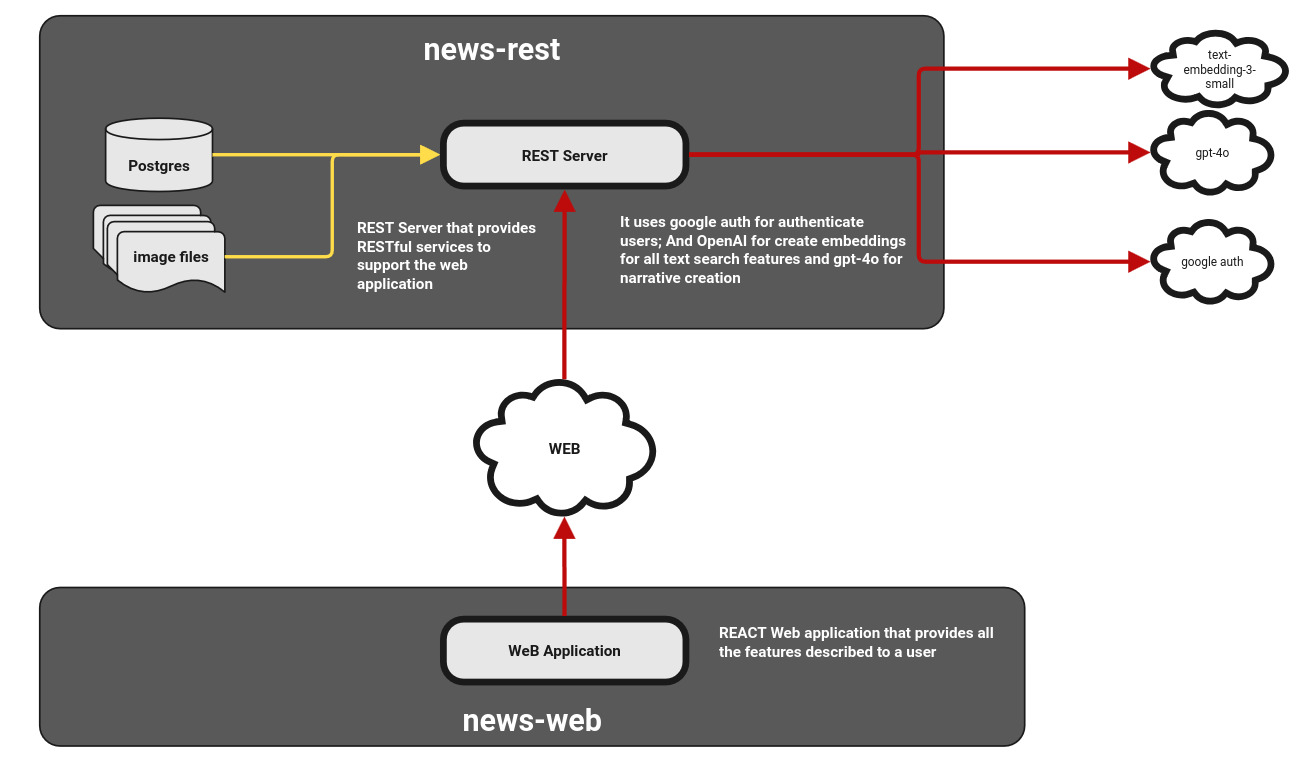
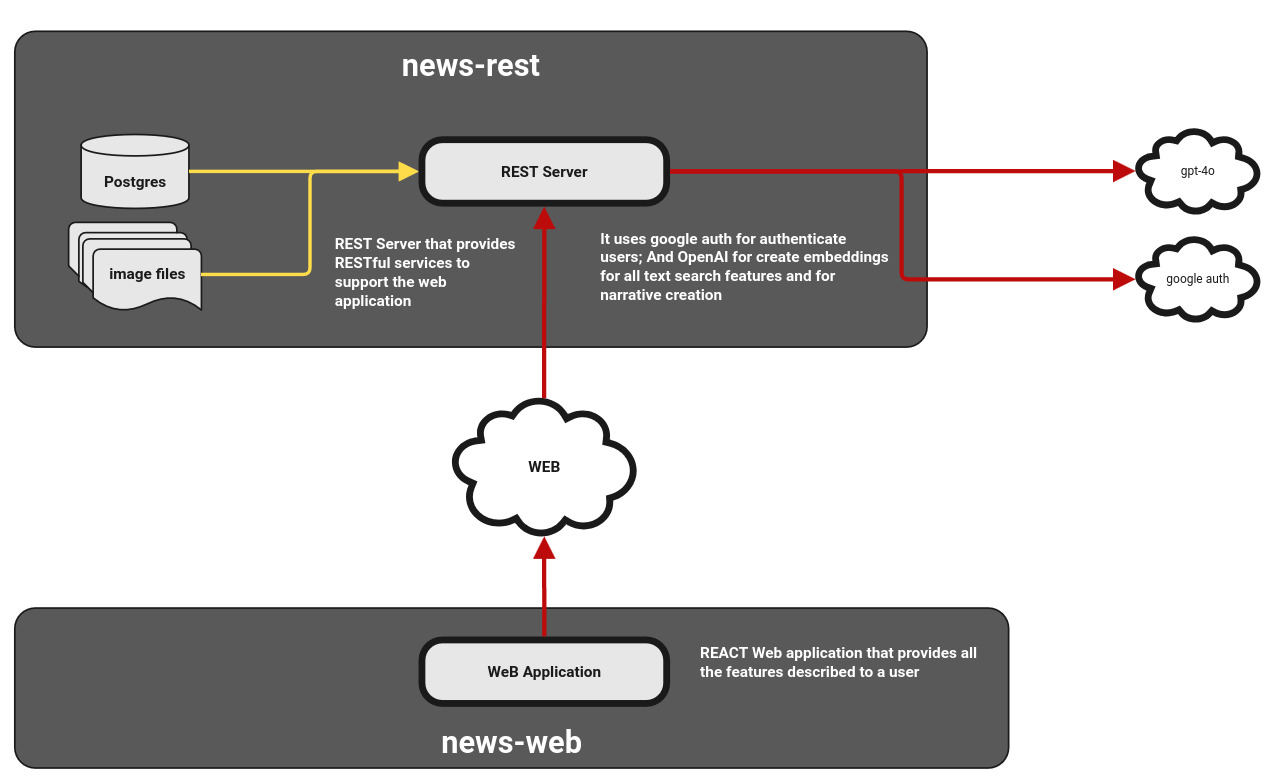
feat(news-web): improves about

Changed region(s): [[0.0, 0.0, 0.9938, 0.9974], [0.4037, 0.5742, 0.4348, 0.6045]]

diff --git a/scribe-news-web/src/i18n/translations.ts b/scribe-news-web/src/i18n/translations.ts
@@ -122,7 +122,7 @@ export const translations = {
     // AboutPage
     navAbout: "About",
     aboutTitle: "About PressDigger",
-    aboutDescription: "PressDigger is a research tool built on top of Arquivo.pt, Portugal's web archive. It allows journalists, researchers, and curious minds to search, explore, and analyse thousands of archived newspaper articles spanning decades of Portuguese press coverage.",
+    aboutDescription: "PressDigger is a tool for journalists, researchers, and the general public to explore and analyze Portuguese politicians' news articles from Arquivo.pt. The system provides powerful search capabilities, article summarization, and semantic analysis to help users discover relevant news content efficiently.\n\nThe inspiration for PressDigger was the microfilm reader machines that appeared in several American thriller movies, where police officers and detectives would search for news articles in a large archive of microfilms. PressDigger is a modern digital version of that concept, allowing users to search and analyze news articles from the comfort of their own devices.",
     aboutStatsTitle: "What's inside",
     aboutArticles: "Articles",
     aboutPersons: "Persons",
@@ -139,15 +139,15 @@ export const translations = {
     aboutExpand: "Show",
     aboutCollapse: "Hide",
     aboutCrawlerTitle: "news-crawler",
-    aboutCrawlerDesc: "On startup, ArquivoCrawler generates the full set of search URLs by combining every Site × every Person × every monthly date interval from January 1996 to today, forming requests against the Arquivo.pt text search API. If URLs have already been generated in a previous run, only the unprocessed ones are loaded from the database, making the crawler resumable. The list is shuffled before processing to distribute load evenly across sites, people and time windows. For each URL, the crawler fetches the Arquivo.pt response and follows any pagination (next_page) until all result pages are collected. Before processing, each batch is deduplicated by computing a hash of the normalised title + site name, checked first against an in-memory Bloom filter and then against the database to avoid redundant work. Each candidate article is then filtered through three gates: it must be a news article (opinion columns, editorials and commentary are discarded), it must have a valid URL, and it must be complete (title, archive link, extracted text link and screenshot link all present). Articles that pass all checks are serialised as JSON and published to a Kafka topic for downstream processing by the image and text processors. Processed URLs are marked in the database so a restart resumes from where it left off.",
+    aboutCrawlerDesc: "The first stage of the pipeline is responsible for discovering news articles from Arquivo.pt. It systematically searches the archive by combining all known news sites, politicians, and monthly date intervals going back to 1996. The crawler handles pagination, deduplicates results using hashing and a Bloom filter, and filters out opinion pieces, editorials, and incomplete entries. Valid articles are published to a Kafka queue, feeding the image processing stage. The process is fully resumable — if interrupted, it picks up exactly where it left off.",
     aboutImageTitle: "news-image",
-    aboutImageDesc: "On each Kafka message received from the crawler, ImageProcessorListener extracts the articleHash and derives the deterministic output filenames (original/{hash}.png and small/{hash}.png). If the original file already exists on disk the message is acknowledged and forwarded immediately, skipping all expensive processing. Otherwise, the article screenshot is downloaded from the linkToScreenshot URL using a URLConnection with configurable connect and read timeouts, retrying up to three times with exponential backoff on failure. The downloaded image passes through two quality gates: first, ImageBlankDetector samples the pixel grid to detect uniformly coloured (blank) images, discarding any where more than 20% of sampled pixels deviate from a reference colour within a per-channel tolerance; second, ImageTextDetector sends the image to the external OCR service and discards any image containing fewer than 250 recognised words, filtering out screenshots without readable article content. Images that pass both gates are written to disk as the full-size original, and a thumbnail is generated by first cropping to the upper portion of the image (top half of the height, capped at width + width/2 pixels) and then resizing to a square using Thumbnailator at a configurable output quality. Finally, the original article payload is enriched with originalImagePath and smallImagePath and published to the next Kafka topic for the text processor to consume.",
+    aboutImageDesc: "Once an article is discovered by the crawler, this component retrieves and validates its screenshot from Arquivo.pt. Each image goes through quality checks — blank or nearly uniform images are discarded, and OCR is used to ensure the screenshot contains enough readable text. Images that pass are saved in full size and as cropped thumbnails, then forwarded along with the article metadata to the text processing stage via Kafka.",
     aboutTextTitle: "news-text",
-    aboutTextDesc: "On each Kafka message received from the image processor, TextProcessorListener first validates that linkToExtractedText is present, then fetches the raw article text from that URL via an HTTP GET with a 20-second timeout. Before spending any OpenAI credits, the raw text is passed through a relevance pre-screen that counts occurrences of the target person's full name (minimum 3 matches) or last name (minimum 5 matches) — articles that don't meet the threshold are discarded immediately. Text that passes the pre-screen is sent to OpenAI with a structured Portuguese-language prompt instructing the model to produce a factual 3–5 paragraph summary, extract the publication date in ISO 8601 format, and return a publishedDateConfidence score between 0 and 1, while strictly ignoring reader comments, opinion columns and editorial meta-text. The raw JSON returned by OpenAI is sanitised (trailing commas removed) before parsing. A second OpenAI call then acts as a strict binary relevance classifier, verifying that the generated summary is genuinely about the target person as its main subject — if the person's name doesn't appear or they are only a secondary mention, the article is rejected. In parallel, AuthorExtractor attempts to identify the article's author by first applying a regex pattern over byline keywords (por, autor, escrito por) in the first 2 000 characters of the text, then calling the external spaCy NER service to detect person-name entities, scoring and ranking all candidates by proximity, frequency and position. The final enriched payload — title, summary, published date, date confidence, author, image paths and archive link — is then published to the embeddings processor Kafka topic.",
+    aboutTextDesc: "After image validation, this component fetches the article's extracted text and determines whether the article is genuinely about the target politician. A relevance check counts name occurrences before any AI processing begins. Relevant articles are sent to OpenAI for summarization, date extraction, and a second-pass relevance classification. In parallel, the author is identified using pattern matching and named entity recognition via spaCy. The enriched article — with summary, publication date, author, and image paths — is then passed to the embeddings stage.",
     aboutEmbeddingsTitle: "news-embeddings",
-    aboutEmbeddingsDesc: "On each Kafka message received from the text processor, TextEmbeddingListener looks up the Site by ID and saves the fully enriched Article to the database — including title, summary, published date, date confidence, archive link, image paths and the resolved or created Author record. Once the article is persisted, its summary is sent to the YAKE service to extract up to 5 Portuguese key-phrases (up to 4 words each); each keyword is created or retrieved from the Keyword table and stored alongside its relevance score in ArticleKeywordScore, forming the basis for public keyword-based collections. The article summary is then split into overlapping chunks of 3 sentences with a 1-sentence overlap using a Portuguese-locale BreakIterator, trailing punctuation is stripped from each chunk, and each chunk is sent to OpenAI (text-embedding-3-small) to produce a 1024-dimensional vector. Each chunk and its vector are saved as an ArticleChunkMedium row in PostgreSQL with the pgvector extension, enabling efficient cosine-similarity search at query time. The module also ships a TextEmbeddingBackfill component that runs on startup (when enabled) and retroactively generates the same chunks and embeddings for any articles already in the database that are missing them, making it safe to re-run or upgrade the embedding model without reprocessing the entire pipeline.",
+    aboutEmbeddingsDesc: "With the article fully processed, this component persists it to the database and prepares it for semantic search. Keywords are extracted using YAKE to power the public collections. The article summary is split into overlapping sentence chunks, and each chunk is transformed into a vector using OpenAI's embedding model. These vectors are stored in PostgreSQL with the pgvector extension, enabling fast cosine-similarity search. A backfill mechanism ensures older articles can be retroactively embedded when the model is updated.",
     aboutRestTitle: "news-rest",
-    aboutRestDesc: "scribe-news-rest is the Spring Boot service that exposes all functionality to the frontend. Article search (POST /articles/search) accepts a text query plus optional filters for site, date range and page, normalises the input, generates a 1024-dimensional embedding via OpenAI text-embedding-3-small, and runs a hybrid query against PostgreSQL that combines pgvector cosine-similarity over the ArticleChunkMedium table with a full-text search on the original input, returning a ranked paginated result. Narrative generation (POST /articles/narrative) is an authenticated, rate-limited feature: the same embedding + hybrid search retrieves up to 20 of the most relevant articles (at least 3 are required), their summaries, dates and IDs are serialised to JSON and sent to OpenAI gpt-4o with a structured journalistic prompt that instructs the model to produce a coherent Portuguese-language narrative with inline citation markers ([1], [2], …); the response is parsed and the markers are resolved back to full article objects before being returned. Each user's narrative usage is tracked within a configurable sliding time window, and requests exceeding the limit receive a 429 Too Many Requests response with the reset timestamp. Image streaming (GET /images/{size}/{filename}) reads files directly from the configured disk path and returns them with 365-day Cache-Control headers. The remaining controllers handle public collections (auto-generated from keyword scores), private collections (user-created, authenticated), article annotations (per-user text notes on articles), authors, sites and persons lookups. Authentication is handled via Google OAuth2 through Spring Security, with session cookies configured for cross-origin use under the press-digger.com domain.",
+    aboutRestDesc: "The REST API, built with Spring Boot, serves as the bridge between the data pipeline and the React frontend. Article search combines vector similarity with full-text search for hybrid ranked results. Authenticated users can generate AI-powered narratives that weave relevant articles into a coherent journalistic account with inline citations. The API also handles image serving, public and private collections, article annotations, author and politician lookups, all secured via Google OAuth2.",
   },
 
   pt: {
@@ -271,7 +271,7 @@ export const translations = {
     // AboutPage
     navAbout: "Sobre",
     aboutTitle: "Sobre o PressDigger",
-    aboutDescription: "O PressDigger é uma ferramenta de investigação construída sobre o Arquivo.pt, o arquivo web de Portugal. Permite a jornalistas, investigadores e curiosos pesquisar, explorar e analisar milhares de artigos de jornais arquivados ao longo de décadas de imprensa portuguesa.",
+    aboutDescription: "O PressDigger é uma ferramenta para jornalistas, investigadores e o público em geral para explorar e analisar artigos de notícias sobre políticos portugueses a partir do Arquivo.pt. O sistema oferece capacidades avançadas de pesquisa, resumo de artigos e análise semântica para ajudar os utilizadores a descobrir conteúdo noticioso relevante de forma eficiente.\n\nA inspiração para o PressDigger foram as máquinas leitoras de microfilmes que apareciam em vários filmes de suspense americanos, onde polícias e detetives pesquisavam artigos de notícias em grandes arquivos de microfilmes. O PressDigger é uma versão digital moderna desse conceito, permitindo pesquisar e analisar artigos de notícias a partir do conforto dos seus próprios dispositivos.",
     aboutStatsTitle: "O que está dentro",
     aboutArticles: "Artigos",
     aboutPersons: "Pessoas",
@@ -288,15 +288,15 @@ export const translations = {
     aboutExpand: "Mostrar",
     aboutCollapse: "Ocultar",
     aboutCrawlerTitle: "news-crawler",
-    aboutCrawlerDesc: "Ao iniciar, o ArquivoCrawler gera o conjunto completo de URLs de pesquisa combinando cada Site × cada Pessoa × cada intervalo de datas mensais desde janeiro de 1996 até hoje, formando pedidos para a API de pesquisa de texto do Arquivo.pt. Se os URLs já foram gerados numa execução anterior, apenas os não processados são carregados da base de dados, tornando o crawler retomável. A lista é embaralhada antes do processamento para distribuir a carga de forma uniforme entre sites, pessoas e janelas temporais. Para cada URL, o crawler obtém a resposta do Arquivo.pt e segue a paginação (next_page) até recolher todas as páginas de resultados. Antes do processamento, cada lote é deduplicado calculando um hash do título normalizado + nome do site, verificado primeiro num filtro de Bloom em memória e depois na base de dados para evitar trabalho redundante. Cada artigo candidato é filtrado por três critérios: deve ser um artigo de notícias (colunas de opinião, editoriais e comentários são descartados), deve ter um URL válido, e deve estar completo (título, ligação de arquivo, ligação para texto extraído e ligação para screenshot presentes). Os artigos que passam todas as verificações são serializados como JSON e publicados num tópico Kafka para processamento posterior pelos processadores de imagem e texto. Os URLs processados são marcados na base de dados para que um reinício retome de onde parou.",
+    aboutCrawlerDesc: "A primeira etapa do pipeline é responsável por descobrir artigos de notícias no Arquivo.pt. Pesquisa sistematicamente o arquivo combinando todos os sites de notícias conhecidos, políticos e intervalos de datas mensais desde 1996. O crawler gere a paginação, elimina duplicados através de hashing e de um filtro de Bloom, e descarta peças de opinião, editoriais e entradas incompletas. Os artigos válidos são publicados numa fila Kafka, alimentando a etapa de processamento de imagem. O processo é totalmente retomável — se for interrompido, recomeça exatamente onde parou.",
     aboutImageTitle: "news-image",
-    aboutImageDesc: "Em cada mensagem Kafka recebida do crawler, o ImageProcessorListener extrai o articleHash e deriva os nomes de ficheiro de saída determinísticos (original/{hash}.png e small/{hash}.png). Se o ficheiro original já existir no disco, a mensagem é confirmada e reencaminhada imediatamente, ignorando todo o processamento dispendioso. Caso contrário, o screenshot do artigo é descarregado a partir do URL linkToScreenshot usando uma URLConnection com timeouts de ligação e leitura configuráveis, tentando novamente até três vezes com recuo exponencial em caso de falha. A imagem descarregada passa por dois controlos de qualidade: primeiro, o ImageBlankDetector amostra a grelha de pixels para detetar imagens uniformemente coloridas (em branco), descartando aquelas em que mais de 20% dos pixels amostrados se desviam de uma cor de referência dentro de uma tolerância por canal; segundo, o ImageTextDetector envia a imagem para o serviço OCR externo e descarta qualquer imagem com menos de 250 palavras reconhecidas, filtrando screenshots sem conteúdo de artigo legível. As imagens que passam ambos os controlos são escritas no disco como original em tamanho completo, e uma miniatura é gerada recortando primeiro para a parte superior da imagem (metade superior da altura, limitado a largura + largura/2 pixels) e depois redimensionando para um quadrado usando Thumbnailator com qualidade de saída configurável. Por fim, o payload original do artigo é enriquecido com originalImagePath e smallImagePath e publicado no próximo tópico Kafka para o processador de texto consumir.",
+    aboutImageDesc: "Assim que um artigo é descoberto pelo crawler, este componente obtém e valida a captura de ecrã correspondente a partir do Arquivo.pt. Cada imagem passa por controlos de qualidade — imagens em branco ou quase uniformes são descartadas, e é utilizado OCR para garantir que a captura contém texto legível suficiente. As imagens aprovadas são guardadas em tamanho original e como miniaturas recortadas, sendo depois encaminhadas juntamente com os metadados do artigo para a etapa de processamento de texto via Kafka.",
     aboutTextTitle: "news-text",
-    aboutTextDesc: "Em cada mensagem Kafka recebida do processador de imagens, o TextProcessorListener valida primeiro que o linkToExtractedText está presente, depois obtém o texto bruto do artigo a partir desse URL via HTTP GET com um timeout de 20 segundos. Antes de gastar créditos OpenAI, o texto bruto é submetido a uma pré-triagem de relevância que conta as ocorrências do nome completo da pessoa alvo (mínimo 3 correspondências) ou apelido (mínimo 5 correspondências) — os artigos que não cumprem o limiar são descartados imediatamente. O texto que passa a pré-triagem é enviado para o OpenAI com um prompt estruturado em português instruindo o modelo a produzir um resumo factual de 3 a 5 parágrafos, extrair a data de publicação no formato ISO 8601, e devolver uma pontuação publishedDateConfidence entre 0 e 1, ignorando estritamente comentários de leitores, colunas de opinião e meta-texto editorial. O JSON bruto devolvido pelo OpenAI é saneado (vírgulas finais removidas) antes da análise. Uma segunda chamada ao OpenAI funciona como classificador binário estrito de relevância, verificando que o resumo gerado é genuinamente sobre a pessoa alvo como sujeito principal — se o nome da pessoa não aparecer ou for apenas uma menção secundária, o artigo é rejeitado. Em paralelo, o AuthorExtractor tenta identificar o autor do artigo aplicando primeiro um padrão regex sobre palavras-chave de assinatura (por, autor, escrito por) nos primeiros 2 000 caracteres do texto, depois chamando o serviço NER spaCy externo para detetar entidades de nomes de pessoas, pontuando e classificando todos os candidatos por proximidade, frequência e posição. O payload final enriquecido — título, resumo, data de publicação, confiança da data, autor, caminhos de imagens e ligação de arquivo — é então publicado no tópico Kafka do processador de embeddings.",
+    aboutTextDesc: "Após a validação da imagem, este componente obtém o texto extraído do artigo e determina se este é genuinamente sobre o político-alvo. Uma verificação de relevância conta as ocorrências do nome antes de qualquer processamento com IA. Os artigos relevantes são enviados para o OpenAI para sumarização, extração de data e uma segunda classificação de relevância. Em paralelo, o autor é identificado através de correspondência de padrões e reconhecimento de entidades nomeadas via spaCy. O artigo enriquecido — com resumo, data de publicação, autor e caminhos de imagens — é então passado para a etapa de embeddings.",
     aboutEmbeddingsTitle: "news-embeddings",
-    aboutEmbeddingsDesc: "Em cada mensagem Kafka recebida do processador de texto, o TextEmbeddingListener procura o Site por ID e guarda o Artigo completamente enriquecido na base de dados — incluindo título, resumo, data de publicação, confiança da data, ligação de arquivo, caminhos de imagens e o registo de Autor resolvido ou criado. Uma vez que o artigo é persistido, o seu resumo é enviado para o serviço YAKE para extrair até 5 expressões-chave em português (até 4 palavras cada); cada palavra-chave é criada ou obtida da tabela Keyword e armazenada juntamente com o seu score de relevância em ArticleKeywordScore, formando a base para coleções públicas baseadas em palavras-chave. O resumo do artigo é então dividido em partes sobrepostas de 3 frases com sobreposição de 1 frase usando um BreakIterator de localidade portuguesa, a pontuação final é removida de cada parte, e cada parte é enviada para o OpenAI (text-embedding-3-small) para produzir um vetor de 1024 dimensões. Cada parte e o seu vetor são guardados como uma linha ArticleChunkMedium no PostgreSQL com a extensão pgvector, permitindo uma pesquisa eficiente por semelhança de cosseno no momento da consulta. O módulo também inclui um componente TextEmbeddingBackfill que é executado no arranque (quando ativado) e gera retroativamente os mesmos fragmentos e embeddings para quaisquer artigos já na base de dados que não os tenham, tornando segura a re-execução ou a atualização do modelo de embedding sem reprocessar todo o pipeline.",
+    aboutEmbeddingsDesc: "Com o artigo totalmente processado, este componente persiste-o na base de dados e prepara-o para pesquisa semântica. São extraídas palavras-chave através do YAKE para alimentar as coleções públicas. O resumo do artigo é dividido em fragmentos sobrepostos de frases, e cada fragmento é transformado num vetor utilizando o modelo de embeddings do OpenAI. Estes vetores são armazenados no PostgreSQL com a extensão pgvector, permitindo pesquisa rápida por semelhança de cosseno. Um mecanismo de preenchimento retroativo garante que artigos mais antigos possam ser indexados quando o modelo é atualizado.",
     aboutRestTitle: "news-rest",
-    aboutRestDesc: "O scribe-news-rest é o serviço Spring Boot que expõe toda a funcionalidade ao frontend. A pesquisa de artigos (POST /articles/search) aceita uma consulta de texto mais filtros opcionais de site, intervalo de datas e página, normaliza a entrada, gera um embedding de 1024 dimensões via OpenAI text-embedding-3-small, e executa uma consulta híbrida contra o PostgreSQL que combina semelhança de cosseno pgvector sobre a tabela ArticleChunkMedium com pesquisa de texto integral sobre a entrada original, devolvendo um resultado paginado e ordenado. A geração de narrativa (POST /articles/narrative) é uma funcionalidade autenticada e com limite de taxa: o mesmo embedding + pesquisa híbrida obtém até 20 dos artigos mais relevantes (são necessários pelo menos 3), os seus resumos, datas e IDs são serializados em JSON e enviados para o OpenAI gpt-4o com um prompt jornalístico estruturado que instrui o modelo a produzir uma narrativa coerente em português com marcadores de citação inline ([1], [2], …); a resposta é analisada e os marcadores são resolvidos de volta para objetos de artigo completos antes de serem devolvidos. O uso de narrativas de cada utilizador é rastreado numa janela de tempo deslizante configurável, e os pedidos que excedem o limite recebem uma resposta 429 Too Many Requests com o timestamp de reinício. O streaming de imagens (GET /images/{size}/{filename}) lê ficheiros diretamente do caminho de disco configurado e devolve-os com cabeçalhos Cache-Control de 365 dias. Os restantes controladores tratam de coleções públicas (geradas automaticamente a partir de pontuações de palavras-chave), coleções privadas (criadas pelo utilizador, autenticadas), anotações de artigos (notas de texto por utilizador sobre artigos), autores, sites e pesquisa de pessoas. A autenticação é gerida via Google OAuth2 através do Spring Security, com cookies de sessão configurados para uso entre origens no domínio press-digger.com.",
+    aboutRestDesc: "A API REST, construída com Spring Boot, serve de ponte entre o pipeline de dados e o frontend em React. A pesquisa de artigos combina semelhança vetorial com pesquisa de texto integral para resultados híbridos ordenados. Os utilizadores autenticados podem gerar narrativas assistidas por IA que entrelaçam artigos relevantes num relato jornalístico coerente com citações inline. A API trata também da entrega de imagens, coleções públicas e privadas, anotações de artigos, pesquisa de autores e políticos, tudo protegido via Google OAuth2.",
   },
 } as const satisfies Record<Lang, Record<string, unknown>>
 

diff --git a/scribe-news-web/src/pages/AboutPage.tsx b/scribe-news-web/src/pages/AboutPage.tsx
@@ -64,7 +64,7 @@ function PipelineCard({ title, desc }: { title: string; desc: string }) {
             margin: 0,
             fontSize: 14,
             lineHeight: 1.8,
-            color: "#777",
+            color: "#aaa",
             overflow: "hidden",
             maxHeight: expanded ? "none" : "6.3em",
             transition: "max-height 300ms ease",
@@ -400,9 +400,11 @@ export default function AboutPage() {
         <div style={{ width: "100%", maxWidth: 760, display: "flex", flexDirection: "column", gap: 40 }}>
 
           {/* Description */}
-          <p style={{ margin: 0, fontSize: 15, lineHeight: 1.8, color: "#aaa" }}>
-            {t.aboutDescription}
-          </p>
+          <div style={{ margin: 0, fontSize: 15, lineHeight: 1.8, color: "#aaa" }}>
+            {t.aboutDescription.split("\n\n").map((p, i) => (
+              <p key={i} style={{ margin: i === 0 ? 0 : "16px 0 0" }}>{p}</p>
+            ))}
+          </div>
 
           {/* Stats */}
           <div>
